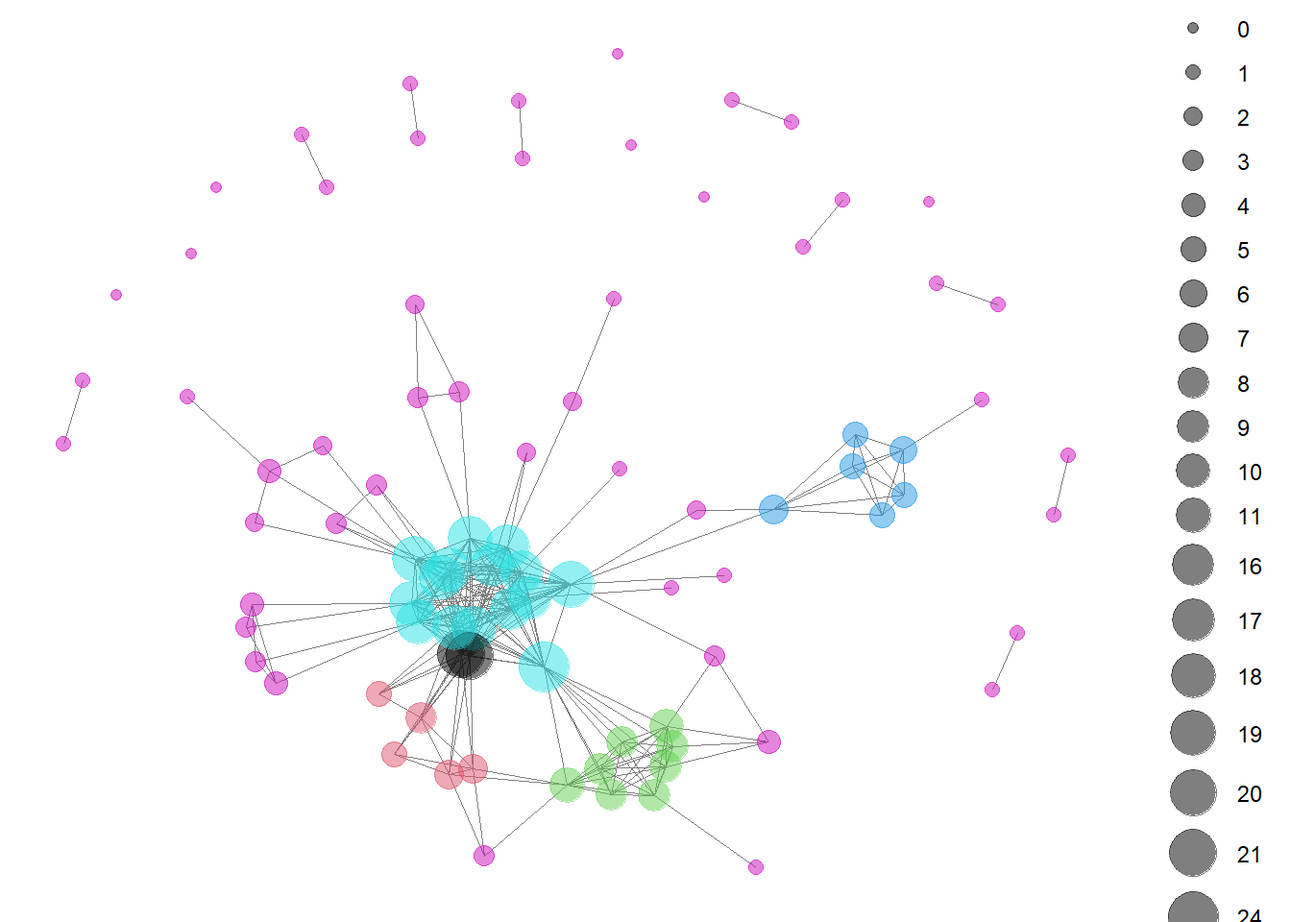
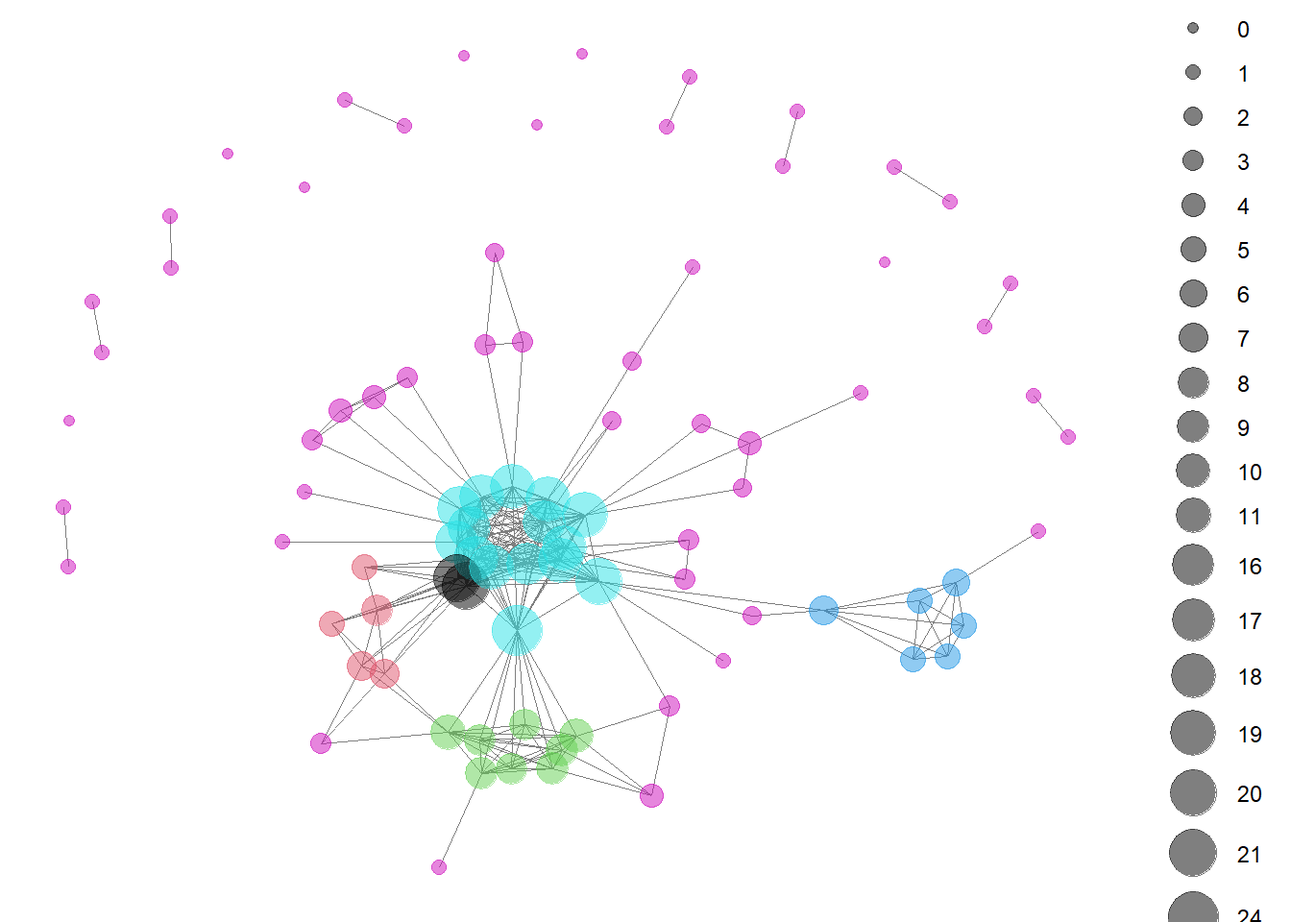
post 6 edit

diff --git a/docs/posts/Post_Six - Copy/post_6_drug.html b/docs/posts/Post_Six - Copy/post_6_drug.html
@@ -418,79 +418,71 @@ No edge attributes</code></pre>
 </div>
 <p>What other cities are on the provider list. Boston is not being properly represented, I have a feeling</p>
 <div class="cell">
-<div class="sourceCode cell-code" id="cb27"><pre class="sourceCode r code-with-copy"><code class="sourceCode r"><span id="cb27-1"><a href="#cb27-1" aria-hidden="true" tabindex="-1"></a><span class="fu">table</span>(pro_attr<span class="sc">$</span>CITY)</span></code><button title="Copy to Clipboard" class="code-copy-button"><i class="bi"></i></button></pre></div>
-<div class="cell-output cell-output-stdout">
-<pre><code>
-       abington         amherst       attleboro          auburn      auburndale 
-              1               2               5               1               2 
-           ayer         beverly          boston       braintree        brighton 
-              1               1               2               1               2 
-       brockton       brookline         byfield       cambridge     centerville 
-              2               1               1               4               1 
-    charlestown        charlton      chelmsford         chelsea   chestnut hill 
-              1               1               1               1               1 
-       chicopee         danvers       dartmouth      dorchester   east sandwich 
-              2               2               2               1               1 
-      fairhaven      fall river       fitchburg      foxborough      framingham 
-              2               7               4               1               4 
-       franklin         gardner      greenfield          groton          hadley 
-              1               2               3               1               1 
-        hanover       holliston         holyoke       hopkinton         hyannis 
-              2               1               2               1               3 
-      lakeville      leominster          ludlow            lynn         mashpee 
-              3               5               1               6               1 
-       medfield         melrose      middleboro       middleton         milford 
-              1               2               1               1               2 
-         milton          natick         needham     new bedford     newburyport 
-              2               4               2               4               3 
-         newton     north adams north dartmouth     northampton          norton 
-              2               1               1               3               1 
-        norwood         peabody      pittsfield        plymouth          quincy 
-              3               3               2               1               1 
-       randolph         raynham         reading        rochdale        rockland 
-              2               1               2               1               1 
-     roslindale     s dartmouth      s yarmouth           salem        sandwich 
-              1               1               1               1               2 
-         saugus         shirley        somerset      somerville    south boston 
-              1               1               2               1               2 
- south hamilton  south yarmouth     springfield        stoneham       stoughton 
-              2               2               1               4               1 
-     swampscott         swansea         taunton           upton    w brookfield 
-              1               1               6               1               1 
-          waban       wakefield         walpole         waltham            ware 
-              1               2               1               7               1 
-        wareham       wellesley wellesley hills    west roxbury   west yarmouth 
-              3               2               1               1               1 
-      westfield        westford        westwood        weymouth       wilbraham 
-              3               3               1               3               1 
-       winthrop          woburn       worcester        wrentham   yarmouth port 
-              1               5              12               1               1 </code></pre>
+<div class="sourceCode cell-code" id="cb27"><pre class="sourceCode r code-with-copy"><code class="sourceCode r"><span id="cb27-1"><a href="#cb27-1" aria-hidden="true" tabindex="-1"></a>Boston_Neighborhoods <span class="ot">&lt;-</span> <span class="fu">c</span>(</span>
+<span id="cb27-2"><a href="#cb27-2" aria-hidden="true" tabindex="-1"></a>  <span class="st">"ALLSTON"</span>,</span>
+<span id="cb27-3"><a href="#cb27-3" aria-hidden="true" tabindex="-1"></a>  <span class="st">"BRIGHTON"</span>,</span>
+<span id="cb27-4"><a href="#cb27-4" aria-hidden="true" tabindex="-1"></a>  <span class="st">"BOSTON"</span>,</span>
+<span id="cb27-5"><a href="#cb27-5" aria-hidden="true" tabindex="-1"></a>  <span class="st">"CHARLESTOWN"</span>,</span>
+<span id="cb27-6"><a href="#cb27-6" aria-hidden="true" tabindex="-1"></a>  <span class="st">"DORCHESTER"</span>,</span>
+<span id="cb27-7"><a href="#cb27-7" aria-hidden="true" tabindex="-1"></a>  <span class="st">"HYDE PARK"</span>,</span>
+<span id="cb27-8"><a href="#cb27-8" aria-hidden="true" tabindex="-1"></a>  <span class="st">"JAMAICA PLAIN"</span>,</span>
+<span id="cb27-9"><a href="#cb27-9" aria-hidden="true" tabindex="-1"></a>  <span class="st">"MATTAPAN"</span>,</span>
+<span id="cb27-10"><a href="#cb27-10" aria-hidden="true" tabindex="-1"></a>  <span class="st">"ROSLINDALE"</span>,</span>
+<span id="cb27-11"><a href="#cb27-11" aria-hidden="true" tabindex="-1"></a>  <span class="st">"ROXBURY"</span>,</span>
+<span id="cb27-12"><a href="#cb27-12" aria-hidden="true" tabindex="-1"></a>  <span class="st">"West Roxbury"</span>,</span>
+<span id="cb27-13"><a href="#cb27-13" aria-hidden="true" tabindex="-1"></a>  <span class="st">"WEST ROXBURY"</span></span>
+<span id="cb27-14"><a href="#cb27-14" aria-hidden="true" tabindex="-1"></a>)</span>
+<span id="cb27-15"><a href="#cb27-15" aria-hidden="true" tabindex="-1"></a>Boston_Neighborhoods <span class="ot">&lt;-</span> <span class="fu">tolower</span>(Boston_Neighborhoods)</span></code><button title="Copy to Clipboard" class="code-copy-button"><i class="bi"></i></button></pre></div>
 </div>
-<div class="sourceCode cell-code" id="cb29"><pre class="sourceCode r code-with-copy"><code class="sourceCode r"><span id="cb29-1"><a href="#cb29-1" aria-hidden="true" tabindex="-1"></a>pro_attr_list <span class="ot">&lt;-</span> <span class="fu">do.call</span>(list, pro_attr)</span></code><button title="Copy to Clipboard" class="code-copy-button"><i class="bi"></i></button></pre></div>
-</div>
-<p>Should have cleaned that earlier, but here we go!</p>
 <div class="cell">
-<div class="sourceCode cell-code" id="cb30"><pre class="sourceCode r code-with-copy"><code class="sourceCode r"><span id="cb30-1"><a href="#cb30-1" aria-hidden="true" tabindex="-1"></a>Boston_Neighborhoods <span class="ot">&lt;-</span> <span class="fu">c</span>(</span>
-<span id="cb30-2"><a href="#cb30-2" aria-hidden="true" tabindex="-1"></a>  <span class="st">"ALLSTON"</span>,</span>
-<span id="cb30-3"><a href="#cb30-3" aria-hidden="true" tabindex="-1"></a>  <span class="st">"BRIGHTON"</span>,</span>
-<span id="cb30-4"><a href="#cb30-4" aria-hidden="true" tabindex="-1"></a>  <span class="st">"BOSTON"</span>,</span>
-<span id="cb30-5"><a href="#cb30-5" aria-hidden="true" tabindex="-1"></a>  <span class="st">"CHARLESTOWN"</span>,</span>
-<span id="cb30-6"><a href="#cb30-6" aria-hidden="true" tabindex="-1"></a>  <span class="st">"DORCHESTER"</span>,</span>
-<span id="cb30-7"><a href="#cb30-7" aria-hidden="true" tabindex="-1"></a>  <span class="st">"HYDE PARK"</span>,</span>
-<span id="cb30-8"><a href="#cb30-8" aria-hidden="true" tabindex="-1"></a>  <span class="st">"JAMAICA PLAIN"</span>,</span>
-<span id="cb30-9"><a href="#cb30-9" aria-hidden="true" tabindex="-1"></a>  <span class="st">"MATTAPAN"</span>,</span>
-<span id="cb30-10"><a href="#cb30-10" aria-hidden="true" tabindex="-1"></a>  <span class="st">"ROSLINDALE"</span>,</span>
-<span id="cb30-11"><a href="#cb30-11" aria-hidden="true" tabindex="-1"></a>  <span class="st">"ROXBURY"</span>,</span>
-<span id="cb30-12"><a href="#cb30-12" aria-hidden="true" tabindex="-1"></a>  <span class="st">"West Roxbury"</span>,</span>
-<span id="cb30-13"><a href="#cb30-13" aria-hidden="true" tabindex="-1"></a>  <span class="st">"WEST ROXBURY"</span></span>
-<span id="cb30-14"><a href="#cb30-14" aria-hidden="true" tabindex="-1"></a>)</span>
-<span id="cb30-15"><a href="#cb30-15" aria-hidden="true" tabindex="-1"></a>Boston_Neighborhoods <span class="ot">&lt;-</span> <span class="fu">tolower</span>(Boston_Neighborhoods)</span></code><button title="Copy to Clipboard" class="code-copy-button"><i class="bi"></i></button></pre></div>
+<div class="sourceCode cell-code" id="cb28"><pre class="sourceCode r code-with-copy"><code class="sourceCode r"><span id="cb28-1"><a href="#cb28-1" aria-hidden="true" tabindex="-1"></a><span class="co">#assign colors</span></span>
+<span id="cb28-2"><a href="#cb28-2" aria-hidden="true" tabindex="-1"></a><span class="co">#colors &lt;-  c("yellow", "blue", "green", "orange", "red", "purple")</span></span>
+<span id="cb28-3"><a href="#cb28-3" aria-hidden="true" tabindex="-1"></a><span class="co">#vertex_colors &lt;- colors[pro_attr_list$block]</span></span>
+<span id="cb28-4"><a href="#cb28-4" aria-hidden="true" tabindex="-1"></a>vertex_colors <span class="ot">&lt;-</span> <span class="fu">ifelse</span>(pro_attr_list<span class="sc">$</span>CITY <span class="sc">%in%</span> Boston_Neighborhoods, <span class="st">"red"</span>, <span class="st">"white"</span>)</span>
+<span id="cb28-5"><a href="#cb28-5" aria-hidden="true" tabindex="-1"></a>vertex_shape <span class="ot">&lt;-</span> <span class="fu">ifelse</span>(pro_attr_list<span class="sc">$</span>block <span class="sc">==</span> <span class="st">"1"</span>, <span class="st">"circle"</span>, <span class="st">"square"</span>)</span>
+<span id="cb28-6"><a href="#cb28-6" aria-hidden="true" tabindex="-1"></a><span class="co">#vertex_shape &lt;- ifelse(pro_attr_list$CITY == "BOSTON", "circle", "square")</span></span></code><button title="Copy to Clipboard" class="code-copy-button"><i class="bi"></i></button></pre></div>
+</div>
+<div class="cell">
+<div class="sourceCode cell-code" id="cb29"><pre class="sourceCode r code-with-copy"><code class="sourceCode r"><span id="cb29-1"><a href="#cb29-1" aria-hidden="true" tabindex="-1"></a><span class="fu">plot</span>(provider_graph, </span>
+<span id="cb29-2"><a href="#cb29-2" aria-hidden="true" tabindex="-1"></a>     <span class="at">layout =</span> layout.fruchterman.reingold, </span>
+<span id="cb29-3"><a href="#cb29-3" aria-hidden="true" tabindex="-1"></a>     <span class="at">vertex.label.dist =</span> <span class="dv">2</span>, </span>
+<span id="cb29-4"><a href="#cb29-4" aria-hidden="true" tabindex="-1"></a>     <span class="at">vertex.size =</span> <span class="dv">4</span>, </span>
+<span id="cb29-5"><a href="#cb29-5" aria-hidden="true" tabindex="-1"></a>     <span class="at">vertex.color =</span> vertex_colors,</span>
+<span id="cb29-6"><a href="#cb29-6" aria-hidden="true" tabindex="-1"></a>     <span class="at">vertex.shape =</span> vertex_shape,</span>
+<span id="cb29-7"><a href="#cb29-7" aria-hidden="true" tabindex="-1"></a>     <span class="at">edge.label =</span> <span class="cn">NA</span>,</span>
+<span id="cb29-8"><a href="#cb29-8" aria-hidden="true" tabindex="-1"></a>     <span class="at">vertex.label =</span> <span class="cn">NA</span>,</span>
+<span id="cb29-9"><a href="#cb29-9" aria-hidden="true" tabindex="-1"></a>     <span class="at">vertex.label.cex =</span> <span class="fl">0.2</span>, </span>
+<span id="cb29-10"><a href="#cb29-10" aria-hidden="true" tabindex="-1"></a>     <span class="at">main =</span> <span class="st">"Providers - RED = BOSTON"</span>)</span></code><button title="Copy to Clipboard" class="code-copy-button"><i class="bi"></i></button></pre></div>
+<div class="cell-output-display">
+<p><img src="post_6_drug_files/figure-html/unnamed-chunk-26-1.png" class="img-fluid" width="672"></p>
+</div>
+</div>
+<p>So… it’s not Boston related.</p>
+<p>How about Highest populations</p>
+<div class="cell">
+<div class="sourceCode cell-code" id="cb30"><pre class="sourceCode r code-with-copy"><code class="sourceCode r"><span id="cb30-1"><a href="#cb30-1" aria-hidden="true" tabindex="-1"></a>largest_pop <span class="ot">&lt;-</span> <span class="fu">c</span>(</span>
+<span id="cb30-2"><a href="#cb30-2" aria-hidden="true" tabindex="-1"></a><span class="st">"Boston"</span>,</span>
+<span id="cb30-3"><a href="#cb30-3" aria-hidden="true" tabindex="-1"></a><span class="st">"Worcester"</span>,</span>
+<span id="cb30-4"><a href="#cb30-4" aria-hidden="true" tabindex="-1"></a><span class="st">"Springfield"</span>,</span>
+<span id="cb30-5"><a href="#cb30-5" aria-hidden="true" tabindex="-1"></a><span class="st">"Cambridge"</span>,</span>
+<span id="cb30-6"><a href="#cb30-6" aria-hidden="true" tabindex="-1"></a><span class="st">"Lowell"</span>,</span>
+<span id="cb30-7"><a href="#cb30-7" aria-hidden="true" tabindex="-1"></a><span class="st">"Brockton"</span>,</span>
+<span id="cb30-8"><a href="#cb30-8" aria-hidden="true" tabindex="-1"></a><span class="st">"Quincy"</span>,</span>
+<span id="cb30-9"><a href="#cb30-9" aria-hidden="true" tabindex="-1"></a><span class="st">"Lynn"</span>,</span>
+<span id="cb30-10"><a href="#cb30-10" aria-hidden="true" tabindex="-1"></a><span class="st">"New Bedford"</span>,</span>
+<span id="cb30-11"><a href="#cb30-11" aria-hidden="true" tabindex="-1"></a><span class="st">"Fall River"</span>,</span>
+<span id="cb30-12"><a href="#cb30-12" aria-hidden="true" tabindex="-1"></a><span class="st">"Lawrence"</span>,</span>
+<span id="cb30-13"><a href="#cb30-13" aria-hidden="true" tabindex="-1"></a><span class="st">"Newton"</span>,</span>
+<span id="cb30-14"><a href="#cb30-14" aria-hidden="true" tabindex="-1"></a><span class="st">"Somerville"</span>,</span>
+<span id="cb30-15"><a href="#cb30-15" aria-hidden="true" tabindex="-1"></a><span class="st">"Framingham"</span>,</span>
+<span id="cb30-16"><a href="#cb30-16" aria-hidden="true" tabindex="-1"></a><span class="st">"Haverhill"</span>)</span>
+<span id="cb30-17"><a href="#cb30-17" aria-hidden="true" tabindex="-1"></a>largest_pop <span class="ot">&lt;-</span> <span class="fu">tolower</span>(largest_pop)</span></code><button title="Copy to Clipboard" class="code-copy-button"><i class="bi"></i></button></pre></div>
 </div>
 <div class="cell">
 <div class="sourceCode cell-code" id="cb31"><pre class="sourceCode r code-with-copy"><code class="sourceCode r"><span id="cb31-1"><a href="#cb31-1" aria-hidden="true" tabindex="-1"></a><span class="co">#assign colors</span></span>
 <span id="cb31-2"><a href="#cb31-2" aria-hidden="true" tabindex="-1"></a><span class="co">#colors &lt;-  c("yellow", "blue", "green", "orange", "red", "purple")</span></span>
 <span id="cb31-3"><a href="#cb31-3" aria-hidden="true" tabindex="-1"></a><span class="co">#vertex_colors &lt;- colors[pro_attr_list$block]</span></span>
-<span id="cb31-4"><a href="#cb31-4" aria-hidden="true" tabindex="-1"></a>vertex_colors <span class="ot">&lt;-</span> <span class="fu">ifelse</span>(pro_attr_list<span class="sc">$</span>CITY <span class="sc">%in%</span> Boston_Neighborhoods, <span class="st">"red"</span>, <span class="st">"white"</span>)</span>
+<span id="cb31-4"><a href="#cb31-4" aria-hidden="true" tabindex="-1"></a>vertex_colors <span class="ot">&lt;-</span> <span class="fu">ifelse</span>(pro_attr_list<span class="sc">$</span>CITY <span class="sc">%in%</span> largest_pop, <span class="st">"red"</span>, <span class="st">"white"</span>)</span>
 <span id="cb31-5"><a href="#cb31-5" aria-hidden="true" tabindex="-1"></a>vertex_shape <span class="ot">&lt;-</span> <span class="fu">ifelse</span>(pro_attr_list<span class="sc">$</span>block <span class="sc">==</span> <span class="st">"1"</span>, <span class="st">"circle"</span>, <span class="st">"square"</span>)</span>
 <span id="cb31-6"><a href="#cb31-6" aria-hidden="true" tabindex="-1"></a><span class="co">#vertex_shape &lt;- ifelse(pro_attr_list$CITY == "BOSTON", "circle", "square")</span></span></code><button title="Copy to Clipboard" class="code-copy-button"><i class="bi"></i></button></pre></div>
 </div>
@@ -504,59 +496,15 @@ No edge attributes</code></pre>
 <span id="cb32-7"><a href="#cb32-7" aria-hidden="true" tabindex="-1"></a>     <span class="at">edge.label =</span> <span class="cn">NA</span>,</span>
 <span id="cb32-8"><a href="#cb32-8" aria-hidden="true" tabindex="-1"></a>     <span class="at">vertex.label =</span> <span class="cn">NA</span>,</span>
 <span id="cb32-9"><a href="#cb32-9" aria-hidden="true" tabindex="-1"></a>     <span class="at">vertex.label.cex =</span> <span class="fl">0.2</span>, </span>
-<span id="cb32-10"><a href="#cb32-10" aria-hidden="true" tabindex="-1"></a>     <span class="at">main =</span> <span class="st">"Providers - RED = BOSTON"</span>)</span></code><button title="Copy to Clipboard" class="code-copy-button"><i class="bi"></i></button></pre></div>
+<span id="cb32-10"><a href="#cb32-10" aria-hidden="true" tabindex="-1"></a>     <span class="at">main =</span> <span class="st">"Providers - RED = Largest Cities"</span>)</span></code><button title="Copy to Clipboard" class="code-copy-button"><i class="bi"></i></button></pre></div>
 <div class="cell-output-display">
-<p><img src="post_6_drug_files/figure-html/unnamed-chunk-27-1.png" class="img-fluid" width="672"></p>
-</div>
-</div>
-<p>So… it’s not Boston related.</p>
-<p>How about Highest populations</p>
-<div class="cell">
-<div class="sourceCode cell-code" id="cb33"><pre class="sourceCode r code-with-copy"><code class="sourceCode r"><span id="cb33-1"><a href="#cb33-1" aria-hidden="true" tabindex="-1"></a>largest_pop <span class="ot">&lt;-</span> <span class="fu">c</span>(</span>
-<span id="cb33-2"><a href="#cb33-2" aria-hidden="true" tabindex="-1"></a><span class="st">"Boston"</span>,</span>
-<span id="cb33-3"><a href="#cb33-3" aria-hidden="true" tabindex="-1"></a><span class="st">"Worcester"</span>,</span>
-<span id="cb33-4"><a href="#cb33-4" aria-hidden="true" tabindex="-1"></a><span class="st">"Springfield"</span>,</span>
-<span id="cb33-5"><a href="#cb33-5" aria-hidden="true" tabindex="-1"></a><span class="st">"Cambridge"</span>,</span>
-<span id="cb33-6"><a href="#cb33-6" aria-hidden="true" tabindex="-1"></a><span class="st">"Lowell"</span>,</span>
-<span id="cb33-7"><a href="#cb33-7" aria-hidden="true" tabindex="-1"></a><span class="st">"Brockton"</span>,</span>
-<span id="cb33-8"><a href="#cb33-8" aria-hidden="true" tabindex="-1"></a><span class="st">"Quincy"</span>,</span>
-<span id="cb33-9"><a href="#cb33-9" aria-hidden="true" tabindex="-1"></a><span class="st">"Lynn"</span>,</span>
-<span id="cb33-10"><a href="#cb33-10" aria-hidden="true" tabindex="-1"></a><span class="st">"New Bedford"</span>,</span>
-<span id="cb33-11"><a href="#cb33-11" aria-hidden="true" tabindex="-1"></a><span class="st">"Fall River"</span>,</span>
-<span id="cb33-12"><a href="#cb33-12" aria-hidden="true" tabindex="-1"></a><span class="st">"Lawrence"</span>,</span>
-<span id="cb33-13"><a href="#cb33-13" aria-hidden="true" tabindex="-1"></a><span class="st">"Newton"</span>,</span>
-<span id="cb33-14"><a href="#cb33-14" aria-hidden="true" tabindex="-1"></a><span class="st">"Somerville"</span>,</span>
-<span id="cb33-15"><a href="#cb33-15" aria-hidden="true" tabindex="-1"></a><span class="st">"Framingham"</span>,</span>
-<span id="cb33-16"><a href="#cb33-16" aria-hidden="true" tabindex="-1"></a><span class="st">"Haverhill"</span>)</span>
-<span id="cb33-17"><a href="#cb33-17" aria-hidden="true" tabindex="-1"></a>largest_pop <span class="ot">&lt;-</span> <span class="fu">tolower</span>(largest_pop)</span></code><button title="Copy to Clipboard" class="code-copy-button"><i class="bi"></i></button></pre></div>
-</div>
-<div class="cell">
-<div class="sourceCode cell-code" id="cb34"><pre class="sourceCode r code-with-copy"><code class="sourceCode r"><span id="cb34-1"><a href="#cb34-1" aria-hidden="true" tabindex="-1"></a><span class="co">#assign colors</span></span>
-<span id="cb34-2"><a href="#cb34-2" aria-hidden="true" tabindex="-1"></a><span class="co">#colors &lt;-  c("yellow", "blue", "green", "orange", "red", "purple")</span></span>
-<span id="cb34-3"><a href="#cb34-3" aria-hidden="true" tabindex="-1"></a><span class="co">#vertex_colors &lt;- colors[pro_attr_list$block]</span></span>
-<span id="cb34-4"><a href="#cb34-4" aria-hidden="true" tabindex="-1"></a>vertex_colors <span class="ot">&lt;-</span> <span class="fu">ifelse</span>(pro_attr_list<span class="sc">$</span>CITY <span class="sc">%in%</span> largest_pop, <span class="st">"red"</span>, <span class="st">"white"</span>)</span>
-<span id="cb34-5"><a href="#cb34-5" aria-hidden="true" tabindex="-1"></a>vertex_shape <span class="ot">&lt;-</span> <span class="fu">ifelse</span>(pro_attr_list<span class="sc">$</span>block <span class="sc">==</span> <span class="st">"1"</span>, <span class="st">"circle"</span>, <span class="st">"square"</span>)</span>
-<span id="cb34-6"><a href="#cb34-6" aria-hidden="true" tabindex="-1"></a><span class="co">#vertex_shape &lt;- ifelse(pro_attr_list$CITY == "BOSTON", "circle", "square")</span></span></code><button title="Copy to Clipboard" class="code-copy-button"><i class="bi"></i></button></pre></div>
-</div>
-<div class="cell">
-<div class="sourceCode cell-code" id="cb35"><pre class="sourceCode r code-with-copy"><code class="sourceCode r"><span id="cb35-1"><a href="#cb35-1" aria-hidden="true" tabindex="-1"></a><span class="fu">plot</span>(provider_graph, </span>
-<span id="cb35-2"><a href="#cb35-2" aria-hidden="true" tabindex="-1"></a>     <span class="at">layout =</span> layout.fruchterman.reingold, </span>
-<span id="cb35-3"><a href="#cb35-3" aria-hidden="true" tabindex="-1"></a>     <span class="at">vertex.label.dist =</span> <span class="dv">2</span>, </span>
-<span id="cb35-4"><a href="#cb35-4" aria-hidden="true" tabindex="-1"></a>     <span class="at">vertex.size =</span> <span class="dv">4</span>, </span>
-<span id="cb35-5"><a href="#cb35-5" aria-hidden="true" tabindex="-1"></a>     <span class="at">vertex.color =</span> vertex_colors,</span>
-<span id="cb35-6"><a href="#cb35-6" aria-hidden="true" tabindex="-1"></a>     <span class="at">vertex.shape =</span> vertex_shape,</span>
-<span id="cb35-7"><a href="#cb35-7" aria-hidden="true" tabindex="-1"></a>     <span class="at">edge.label =</span> <span class="cn">NA</span>,</span>
-<span id="cb35-8"><a href="#cb35-8" aria-hidden="true" tabindex="-1"></a>     <span class="at">vertex.label =</span> <span class="cn">NA</span>,</span>
-<span id="cb35-9"><a href="#cb35-9" aria-hidden="true" tabindex="-1"></a>     <span class="at">vertex.label.cex =</span> <span class="fl">0.2</span>, </span>
-<span id="cb35-10"><a href="#cb35-10" aria-hidden="true" tabindex="-1"></a>     <span class="at">main =</span> <span class="st">"Providers - RED = Largest Cities"</span>)</span></code><button title="Copy to Clipboard" class="code-copy-button"><i class="bi"></i></button></pre></div>
-<div class="cell-output-display">
-<p><img src="post_6_drug_files/figure-html/unnamed-chunk-30-1.png" class="img-fluid" width="672"></p>
+<p><img src="post_6_drug_files/figure-html/unnamed-chunk-29-1.png" class="img-fluid" width="672"></p>
 </div>
 </div>
 <div class="cell">
-<div class="sourceCode cell-code" id="cb36"><pre class="sourceCode r code-with-copy"><code class="sourceCode r"><span id="cb36-1"><a href="#cb36-1" aria-hidden="true" tabindex="-1"></a>block1 <span class="ot">&lt;-</span> pro_attr <span class="sc">%&gt;%</span></span>
-<span id="cb36-2"><a href="#cb36-2" aria-hidden="true" tabindex="-1"></a>  <span class="fu">filter</span>(block <span class="sc">==</span> <span class="dv">1</span>)</span>
-<span id="cb36-3"><a href="#cb36-3" aria-hidden="true" tabindex="-1"></a>block1</span></code><button title="Copy to Clipboard" class="code-copy-button"><i class="bi"></i></button></pre></div>
+<div class="sourceCode cell-code" id="cb33"><pre class="sourceCode r code-with-copy"><code class="sourceCode r"><span id="cb33-1"><a href="#cb33-1" aria-hidden="true" tabindex="-1"></a>block1 <span class="ot">&lt;-</span> pro_attr <span class="sc">%&gt;%</span></span>
+<span id="cb33-2"><a href="#cb33-2" aria-hidden="true" tabindex="-1"></a>  <span class="fu">filter</span>(block <span class="sc">==</span> <span class="dv">1</span>)</span>
+<span id="cb33-3"><a href="#cb33-3" aria-hidden="true" tabindex="-1"></a>block1</span></code><button title="Copy to Clipboard" class="code-copy-button"><i class="bi"></i></button></pre></div>
 <div class="cell-output cell-output-stdout">
 <pre><code># A tibble: 6 × 5
   NAME                   GENDER CITY       type     block
@@ -570,16 +518,16 @@ No edge attributes</code></pre>
 </div>
 </div>
 <div class="cell">
-<div class="sourceCode cell-code" id="cb38"><pre class="sourceCode r code-with-copy"><code class="sourceCode r"><span id="cb38-1"><a href="#cb38-1" aria-hidden="true" tabindex="-1"></a>Ted955 <span class="ot">&lt;-</span> encounters_cleaned <span class="sc">%&gt;%</span> </span>
-<span id="cb38-2"><a href="#cb38-2" aria-hidden="true" tabindex="-1"></a>    <span class="fu">filter</span>(PROVIDER <span class="sc">==</span> <span class="st">"Ted955 Reilly981"</span>) <span class="sc">%&gt;%</span> </span>
-<span id="cb38-3"><a href="#cb38-3" aria-hidden="true" tabindex="-1"></a>    <span class="fu">group_by</span>(PROVIDER, CITY.x, REASONDESCRIPTION)<span class="sc">%&gt;%</span></span>
-<span id="cb38-4"><a href="#cb38-4" aria-hidden="true" tabindex="-1"></a>  <span class="fu">summarize</span>(<span class="at">COUNT =</span> <span class="fu">n</span>()) </span></code><button title="Copy to Clipboard" class="code-copy-button"><i class="bi"></i></button></pre></div>
+<div class="sourceCode cell-code" id="cb35"><pre class="sourceCode r code-with-copy"><code class="sourceCode r"><span id="cb35-1"><a href="#cb35-1" aria-hidden="true" tabindex="-1"></a>Ted955 <span class="ot">&lt;-</span> encounters_cleaned <span class="sc">%&gt;%</span> </span>
+<span id="cb35-2"><a href="#cb35-2" aria-hidden="true" tabindex="-1"></a>    <span class="fu">filter</span>(PROVIDER <span class="sc">==</span> <span class="st">"Ted955 Reilly981"</span>) <span class="sc">%&gt;%</span> </span>
+<span id="cb35-3"><a href="#cb35-3" aria-hidden="true" tabindex="-1"></a>    <span class="fu">group_by</span>(PROVIDER, CITY.x, REASONDESCRIPTION)<span class="sc">%&gt;%</span></span>
+<span id="cb35-4"><a href="#cb35-4" aria-hidden="true" tabindex="-1"></a>  <span class="fu">summarize</span>(<span class="at">COUNT =</span> <span class="fu">n</span>()) </span></code><button title="Copy to Clipboard" class="code-copy-button"><i class="bi"></i></button></pre></div>
 <div class="cell-output cell-output-stderr">
 <pre><code>`summarise()` has grouped output by 'PROVIDER', 'CITY.x'. You can override
 using the `.groups` argument.</code></pre>
 </div>
-<div class="sourceCode cell-code" id="cb40"><pre class="sourceCode r code-with-copy"><code class="sourceCode r"><span id="cb40-1"><a href="#cb40-1" aria-hidden="true" tabindex="-1"></a>Ted955<span class="sc">%&gt;%</span></span>
-<span id="cb40-2"><a href="#cb40-2" aria-hidden="true" tabindex="-1"></a>  <span class="fu">arrange</span>(<span class="fu">desc</span>(COUNT))</span></code><button title="Copy to Clipboard" class="code-copy-button"><i class="bi"></i></button></pre></div>
+<div class="sourceCode cell-code" id="cb37"><pre class="sourceCode r code-with-copy"><code class="sourceCode r"><span id="cb37-1"><a href="#cb37-1" aria-hidden="true" tabindex="-1"></a>Ted955<span class="sc">%&gt;%</span></span>
+<span id="cb37-2"><a href="#cb37-2" aria-hidden="true" tabindex="-1"></a>  <span class="fu">arrange</span>(<span class="fu">desc</span>(COUNT))</span></code><button title="Copy to Clipboard" class="code-copy-button"><i class="bi"></i></button></pre></div>
 <div class="cell-output cell-output-stdout">
 <pre><code># A tibble: 16 × 4
 # Groups:   PROVIDER, CITY.x [1]
@@ -606,16 +554,16 @@ using the `.groups` argument.</code></pre>
 <p>Gonna go ahead and say Ted’s a Cardiologist</p>
 <p>Maybe there are other doctors that are in block one that are also cardiologists?</p>
 <div class="cell">
-<div class="sourceCode cell-code" id="cb42"><pre class="sourceCode r code-with-copy"><code class="sourceCode r"><span id="cb42-1"><a href="#cb42-1" aria-hidden="true" tabindex="-1"></a>Barbara209 <span class="ot">&lt;-</span> encounters_cleaned <span class="sc">%&gt;%</span> </span>
-<span id="cb42-2"><a href="#cb42-2" aria-hidden="true" tabindex="-1"></a>    <span class="fu">filter</span>(PROVIDER <span class="sc">==</span> <span class="st">"Barbara209 Maldonado119"</span>) <span class="sc">%&gt;%</span> </span>
-<span id="cb42-3"><a href="#cb42-3" aria-hidden="true" tabindex="-1"></a>    <span class="fu">group_by</span>(PROVIDER, CITY.x, REASONDESCRIPTION)<span class="sc">%&gt;%</span></span>
-<span id="cb42-4"><a href="#cb42-4" aria-hidden="true" tabindex="-1"></a>  <span class="fu">summarize</span>(<span class="at">COUNT =</span> <span class="fu">n</span>()) </span></code><button title="Copy to Clipboard" class="code-copy-button"><i class="bi"></i></button></pre></div>
+<div class="sourceCode cell-code" id="cb39"><pre class="sourceCode r code-with-copy"><code class="sourceCode r"><span id="cb39-1"><a href="#cb39-1" aria-hidden="true" tabindex="-1"></a>Barbara209 <span class="ot">&lt;-</span> encounters_cleaned <span class="sc">%&gt;%</span> </span>
+<span id="cb39-2"><a href="#cb39-2" aria-hidden="true" tabindex="-1"></a>    <span class="fu">filter</span>(PROVIDER <span class="sc">==</span> <span class="st">"Barbara209 Maldonado119"</span>) <span class="sc">%&gt;%</span> </span>
+<span id="cb39-3"><a href="#cb39-3" aria-hidden="true" tabindex="-1"></a>    <span class="fu">group_by</span>(PROVIDER, CITY.x, REASONDESCRIPTION)<span class="sc">%&gt;%</span></span>
+<span id="cb39-4"><a href="#cb39-4" aria-hidden="true" tabindex="-1"></a>  <span class="fu">summarize</span>(<span class="at">COUNT =</span> <span class="fu">n</span>()) </span></code><button title="Copy to Clipboard" class="code-copy-button"><i class="bi"></i></button></pre></div>
 <div class="cell-output cell-output-stderr">
 <pre><code>`summarise()` has grouped output by 'PROVIDER', 'CITY.x'. You can override
 using the `.groups` argument.</code></pre>
 </div>
-<div class="sourceCode cell-code" id="cb44"><pre class="sourceCode r code-with-copy"><code class="sourceCode r"><span id="cb44-1"><a href="#cb44-1" aria-hidden="true" tabindex="-1"></a>Barbara209 <span class="sc">%&gt;%</span></span>
-<span id="cb44-2"><a href="#cb44-2" aria-hidden="true" tabindex="-1"></a>  <span class="fu">arrange</span>(<span class="fu">desc</span>(COUNT))</span></code><button title="Copy to Clipboard" class="code-copy-button"><i class="bi"></i></button></pre></div>
+<div class="sourceCode cell-code" id="cb41"><pre class="sourceCode r code-with-copy"><code class="sourceCode r"><span id="cb41-1"><a href="#cb41-1" aria-hidden="true" tabindex="-1"></a>Barbara209 <span class="sc">%&gt;%</span></span>
+<span id="cb41-2"><a href="#cb41-2" aria-hidden="true" tabindex="-1"></a>  <span class="fu">arrange</span>(<span class="fu">desc</span>(COUNT))</span></code><button title="Copy to Clipboard" class="code-copy-button"><i class="bi"></i></button></pre></div>
 <div class="cell-output cell-output-stdout">
 <pre><code># A tibble: 0 × 4
 # Groups:   PROVIDER, CITY.x [0]
@@ -624,16 +572,16 @@ using the `.groups` argument.</code></pre>
 </div>
 </div>
 <div class="cell">
-<div class="sourceCode cell-code" id="cb46"><pre class="sourceCode r code-with-copy"><code class="sourceCode r"><span id="cb46-1"><a href="#cb46-1" aria-hidden="true" tabindex="-1"></a>Gisele901 <span class="ot">&lt;-</span> encounters_cleaned <span class="sc">%&gt;%</span> </span>
-<span id="cb46-2"><a href="#cb46-2" aria-hidden="true" tabindex="-1"></a>    <span class="fu">filter</span>(PROVIDER <span class="sc">==</span> <span class="st">"Gisele901 Lehner980"</span>) <span class="sc">%&gt;%</span> </span>
-<span id="cb46-3"><a href="#cb46-3" aria-hidden="true" tabindex="-1"></a>    <span class="fu">group_by</span>(PROVIDER, CITY.x, REASONDESCRIPTION)<span class="sc">%&gt;%</span></span>
-<span id="cb46-4"><a href="#cb46-4" aria-hidden="true" tabindex="-1"></a>  <span class="fu">summarize</span>(<span class="at">COUNT =</span> <span class="fu">n</span>()) </span></code><button title="Copy to Clipboard" class="code-copy-button"><i class="bi"></i></button></pre></div>
+<div class="sourceCode cell-code" id="cb43"><pre class="sourceCode r code-with-copy"><code class="sourceCode r"><span id="cb43-1"><a href="#cb43-1" aria-hidden="true" tabindex="-1"></a>Gisele901 <span class="ot">&lt;-</span> encounters_cleaned <span class="sc">%&gt;%</span> </span>
+<span id="cb43-2"><a href="#cb43-2" aria-hidden="true" tabindex="-1"></a>    <span class="fu">filter</span>(PROVIDER <span class="sc">==</span> <span class="st">"Gisele901 Lehner980"</span>) <span class="sc">%&gt;%</span> </span>
+<span id="cb43-3"><a href="#cb43-3" aria-hidden="true" tabindex="-1"></a>    <span class="fu">group_by</span>(PROVIDER, CITY.x, REASONDESCRIPTION)<span class="sc">%&gt;%</span></span>
+<span id="cb43-4"><a href="#cb43-4" aria-hidden="true" tabindex="-1"></a>  <span class="fu">summarize</span>(<span class="at">COUNT =</span> <span class="fu">n</span>()) </span></code><button title="Copy to Clipboard" class="code-copy-button"><i class="bi"></i></button></pre></div>
 <div class="cell-output cell-output-stderr">
 <pre><code>`summarise()` has grouped output by 'PROVIDER', 'CITY.x'. You can override
 using the `.groups` argument.</code></pre>
 </div>
-<div class="sourceCode cell-code" id="cb48"><pre class="sourceCode r code-with-copy"><code class="sourceCode r"><span id="cb48-1"><a href="#cb48-1" aria-hidden="true" tabindex="-1"></a>Gisele901 <span class="sc">%&gt;%</span></span>
-<span id="cb48-2"><a href="#cb48-2" aria-hidden="true" tabindex="-1"></a>  <span class="fu">arrange</span>(<span class="fu">desc</span>(COUNT))</span></code><button title="Copy to Clipboard" class="code-copy-button"><i class="bi"></i></button></pre></div>
+<div class="sourceCode cell-code" id="cb45"><pre class="sourceCode r code-with-copy"><code class="sourceCode r"><span id="cb45-1"><a href="#cb45-1" aria-hidden="true" tabindex="-1"></a>Gisele901 <span class="sc">%&gt;%</span></span>
+<span id="cb45-2"><a href="#cb45-2" aria-hidden="true" tabindex="-1"></a>  <span class="fu">arrange</span>(<span class="fu">desc</span>(COUNT))</span></code><button title="Copy to Clipboard" class="code-copy-button"><i class="bi"></i></button></pre></div>
 <div class="cell-output cell-output-stdout">
 <pre><code># A tibble: 0 × 4
 # Groups:   PROVIDER, CITY.x [0]
@@ -642,15 +590,15 @@ using the `.groups` argument.</code></pre>
 </div>
 </div>
 <div class="cell">
-<div class="sourceCode cell-code" id="cb50"><pre class="sourceCode r code-with-copy"><code class="sourceCode r"><span id="cb50-1"><a href="#cb50-1" aria-hidden="true" tabindex="-1"></a>encounters_reasons <span class="ot">&lt;-</span> encounters_cleaned <span class="sc">%&gt;%</span> </span>
-<span id="cb50-2"><a href="#cb50-2" aria-hidden="true" tabindex="-1"></a>    <span class="fu">group_by</span>(PROVIDER, CITY.x, REASONDESCRIPTION)<span class="sc">%&gt;%</span></span>
-<span id="cb50-3"><a href="#cb50-3" aria-hidden="true" tabindex="-1"></a>    <span class="fu">summarize</span>(<span class="at">COUNT =</span> <span class="fu">n</span>()) </span></code><button title="Copy to Clipboard" class="code-copy-button"><i class="bi"></i></button></pre></div>
+<div class="sourceCode cell-code" id="cb47"><pre class="sourceCode r code-with-copy"><code class="sourceCode r"><span id="cb47-1"><a href="#cb47-1" aria-hidden="true" tabindex="-1"></a>encounters_reasons <span class="ot">&lt;-</span> encounters_cleaned <span class="sc">%&gt;%</span> </span>
+<span id="cb47-2"><a href="#cb47-2" aria-hidden="true" tabindex="-1"></a>    <span class="fu">group_by</span>(PROVIDER, CITY.x, REASONDESCRIPTION)<span class="sc">%&gt;%</span></span>
+<span id="cb47-3"><a href="#cb47-3" aria-hidden="true" tabindex="-1"></a>    <span class="fu">summarize</span>(<span class="at">COUNT =</span> <span class="fu">n</span>()) </span></code><button title="Copy to Clipboard" class="code-copy-button"><i class="bi"></i></button></pre></div>
 <div class="cell-output cell-output-stderr">
 <pre><code>`summarise()` has grouped output by 'PROVIDER', 'CITY.x'. You can override
 using the `.groups` argument.</code></pre>
 </div>
-<div class="sourceCode cell-code" id="cb52"><pre class="sourceCode r code-with-copy"><code class="sourceCode r"><span id="cb52-1"><a href="#cb52-1" aria-hidden="true" tabindex="-1"></a>encounters_reasons <span class="sc">%&gt;%</span></span>
-<span id="cb52-2"><a href="#cb52-2" aria-hidden="true" tabindex="-1"></a>  <span class="fu">arrange</span>(<span class="fu">desc</span>(COUNT))</span></code><button title="Copy to Clipboard" class="code-copy-button"><i class="bi"></i></button></pre></div>
+<div class="sourceCode cell-code" id="cb49"><pre class="sourceCode r code-with-copy"><code class="sourceCode r"><span id="cb49-1"><a href="#cb49-1" aria-hidden="true" tabindex="-1"></a>encounters_reasons <span class="sc">%&gt;%</span></span>
+<span id="cb49-2"><a href="#cb49-2" aria-hidden="true" tabindex="-1"></a>  <span class="fu">arrange</span>(<span class="fu">desc</span>(COUNT))</span></code><button title="Copy to Clipboard" class="code-copy-button"><i class="bi"></i></button></pre></div>
 <div class="cell-output cell-output-stdout">
 <pre><code># A tibble: 765 × 4
 # Groups:   PROVIDER, CITY.x [222]
@@ -670,16 +618,16 @@ using the `.groups` argument.</code></pre>
 </div>
 </div>
 <div class="cell">
-<div class="sourceCode cell-code" id="cb54"><pre class="sourceCode r code-with-copy"><code class="sourceCode r"><span id="cb54-1"><a href="#cb54-1" aria-hidden="true" tabindex="-1"></a>Alvin56 <span class="ot">&lt;-</span> encounters_cleaned <span class="sc">%&gt;%</span> </span>
-<span id="cb54-2"><a href="#cb54-2" aria-hidden="true" tabindex="-1"></a>    <span class="fu">filter</span>(PROVIDER <span class="sc">==</span> <span class="st">"Alvin56 Crona259"</span>) <span class="sc">%&gt;%</span> </span>
-<span id="cb54-3"><a href="#cb54-3" aria-hidden="true" tabindex="-1"></a>    <span class="fu">group_by</span>(PROVIDER, PATIENT, CITY.x, REASONDESCRIPTION)<span class="sc">%&gt;%</span></span>
-<span id="cb54-4"><a href="#cb54-4" aria-hidden="true" tabindex="-1"></a>  <span class="fu">summarize</span>(<span class="at">COUNT =</span> <span class="fu">n</span>()) </span></code><button title="Copy to Clipboard" class="code-copy-button"><i class="bi"></i></button></pre></div>
+<div class="sourceCode cell-code" id="cb51"><pre class="sourceCode r code-with-copy"><code class="sourceCode r"><span id="cb51-1"><a href="#cb51-1" aria-hidden="true" tabindex="-1"></a>Alvin56 <span class="ot">&lt;-</span> encounters_cleaned <span class="sc">%&gt;%</span> </span>
+<span id="cb51-2"><a href="#cb51-2" aria-hidden="true" tabindex="-1"></a>    <span class="fu">filter</span>(PROVIDER <span class="sc">==</span> <span class="st">"Alvin56 Crona259"</span>) <span class="sc">%&gt;%</span> </span>
+<span id="cb51-3"><a href="#cb51-3" aria-hidden="true" tabindex="-1"></a>    <span class="fu">group_by</span>(PROVIDER, PATIENT, CITY.x, REASONDESCRIPTION)<span class="sc">%&gt;%</span></span>
+<span id="cb51-4"><a href="#cb51-4" aria-hidden="true" tabindex="-1"></a>  <span class="fu">summarize</span>(<span class="at">COUNT =</span> <span class="fu">n</span>()) </span></code><button title="Copy to Clipboard" class="code-copy-button"><i class="bi"></i></button></pre></div>
 <div class="cell-output cell-output-stderr">
 <pre><code>`summarise()` has grouped output by 'PROVIDER', 'PATIENT', 'CITY.x'. You can
 override using the `.groups` argument.</code></pre>
 </div>
-<div class="sourceCode cell-code" id="cb56"><pre class="sourceCode r code-with-copy"><code class="sourceCode r"><span id="cb56-1"><a href="#cb56-1" aria-hidden="true" tabindex="-1"></a>Alvin56 <span class="sc">%&gt;%</span></span>
-<span id="cb56-2"><a href="#cb56-2" aria-hidden="true" tabindex="-1"></a>  <span class="fu">arrange</span>(<span class="fu">desc</span>(COUNT))</span></code><button title="Copy to Clipboard" class="code-copy-button"><i class="bi"></i></button></pre></div>
+<div class="sourceCode cell-code" id="cb53"><pre class="sourceCode r code-with-copy"><code class="sourceCode r"><span id="cb53-1"><a href="#cb53-1" aria-hidden="true" tabindex="-1"></a>Alvin56 <span class="sc">%&gt;%</span></span>
+<span id="cb53-2"><a href="#cb53-2" aria-hidden="true" tabindex="-1"></a>  <span class="fu">arrange</span>(<span class="fu">desc</span>(COUNT))</span></code><button title="Copy to Clipboard" class="code-copy-button"><i class="bi"></i></button></pre></div>
 <div class="cell-output cell-output-stdout">
 <pre><code># A tibble: 0 × 5
 # Groups:   PROVIDER, PATIENT, CITY.x [0]
@@ -688,16 +636,16 @@ override using the `.groups` argument.</code></pre>
 </div>
 </div>
 <div class="cell">
-<div class="sourceCode cell-code" id="cb58"><pre class="sourceCode r code-with-copy"><code class="sourceCode r"><span id="cb58-1"><a href="#cb58-1" aria-hidden="true" tabindex="-1"></a>Margart214 <span class="ot">&lt;-</span> encounters_cleaned <span class="sc">%&gt;%</span> </span>
-<span id="cb58-2"><a href="#cb58-2" aria-hidden="true" tabindex="-1"></a>    <span class="fu">filter</span>(PROVIDER <span class="sc">==</span> <span class="st">"Margart214 Bogisich202"</span>) <span class="sc">%&gt;%</span> </span>
-<span id="cb58-3"><a href="#cb58-3" aria-hidden="true" tabindex="-1"></a>    <span class="fu">group_by</span>(PROVIDER, PATIENT, CITY.x, REASONDESCRIPTION)<span class="sc">%&gt;%</span></span>
-<span id="cb58-4"><a href="#cb58-4" aria-hidden="true" tabindex="-1"></a>  <span class="fu">summarize</span>(<span class="at">COUNT =</span> <span class="fu">n</span>()) </span></code><button title="Copy to Clipboard" class="code-copy-button"><i class="bi"></i></button></pre></div>
+<div class="sourceCode cell-code" id="cb55"><pre class="sourceCode r code-with-copy"><code class="sourceCode r"><span id="cb55-1"><a href="#cb55-1" aria-hidden="true" tabindex="-1"></a>Margart214 <span class="ot">&lt;-</span> encounters_cleaned <span class="sc">%&gt;%</span> </span>
+<span id="cb55-2"><a href="#cb55-2" aria-hidden="true" tabindex="-1"></a>    <span class="fu">filter</span>(PROVIDER <span class="sc">==</span> <span class="st">"Margart214 Bogisich202"</span>) <span class="sc">%&gt;%</span> </span>
+<span id="cb55-3"><a href="#cb55-3" aria-hidden="true" tabindex="-1"></a>    <span class="fu">group_by</span>(PROVIDER, PATIENT, CITY.x, REASONDESCRIPTION)<span class="sc">%&gt;%</span></span>
+<span id="cb55-4"><a href="#cb55-4" aria-hidden="true" tabindex="-1"></a>  <span class="fu">summarize</span>(<span class="at">COUNT =</span> <span class="fu">n</span>()) </span></code><button title="Copy to Clipboard" class="code-copy-button"><i class="bi"></i></button></pre></div>
 <div class="cell-output cell-output-stderr">
 <pre><code>`summarise()` has grouped output by 'PROVIDER', 'PATIENT', 'CITY.x'. You can
 override using the `.groups` argument.</code></pre>
 </div>
-<div class="sourceCode cell-code" id="cb60"><pre class="sourceCode r code-with-copy"><code class="sourceCode r"><span id="cb60-1"><a href="#cb60-1" aria-hidden="true" tabindex="-1"></a>Margart214 <span class="sc">%&gt;%</span></span>
-<span id="cb60-2"><a href="#cb60-2" aria-hidden="true" tabindex="-1"></a>  <span class="fu">arrange</span>(<span class="fu">desc</span>(COUNT))</span></code><button title="Copy to Clipboard" class="code-copy-button"><i class="bi"></i></button></pre></div>
+<div class="sourceCode cell-code" id="cb57"><pre class="sourceCode r code-with-copy"><code class="sourceCode r"><span id="cb57-1"><a href="#cb57-1" aria-hidden="true" tabindex="-1"></a>Margart214 <span class="sc">%&gt;%</span></span>
+<span id="cb57-2"><a href="#cb57-2" aria-hidden="true" tabindex="-1"></a>  <span class="fu">arrange</span>(<span class="fu">desc</span>(COUNT))</span></code><button title="Copy to Clipboard" class="code-copy-button"><i class="bi"></i></button></pre></div>
 <div class="cell-output cell-output-stdout">
 <pre><code># A tibble: 0 × 5
 # Groups:   PROVIDER, PATIENT, CITY.x [0]

diff --git a/docs/index.html b/docs/index.html
@@ -328,7 +328,7 @@ Sue-Ellen Duffy
 </a>
 </div>
 </div>
-<div class="quarto-post image-right" data-index="4" data-categories="code,analysis,block_model" data-listing-date-sort="1714104000000" data-listing-file-modified-sort="1714765070480" data-listing-date-modified-sort="NaN" data-listing-reading-time-sort="6">
+<div class="quarto-post image-right" data-index="4" data-categories="code,analysis,block_model" data-listing-date-sort="1714104000000" data-listing-file-modified-sort="1714765259546" data-listing-date-modified-sort="NaN" data-listing-reading-time-sort="6">
 <div class="thumbnail">
 <p><a href="./posts/Post_Six - Copy/post_6_drug.html"> <p class="card-img-top"><img src="posts\Post_Six - Copy\post_6_drug_files\figure-html\unnamed-chunk-10-1.png"  class="thumbnail-image card-img"/></p> </a></p>
 </div>
